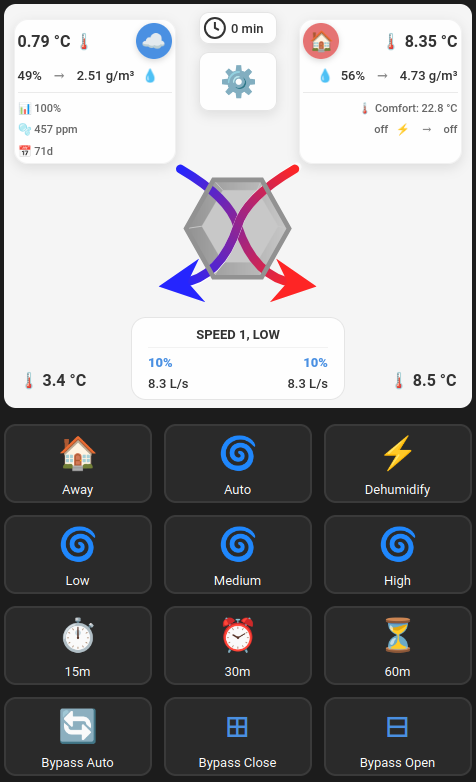
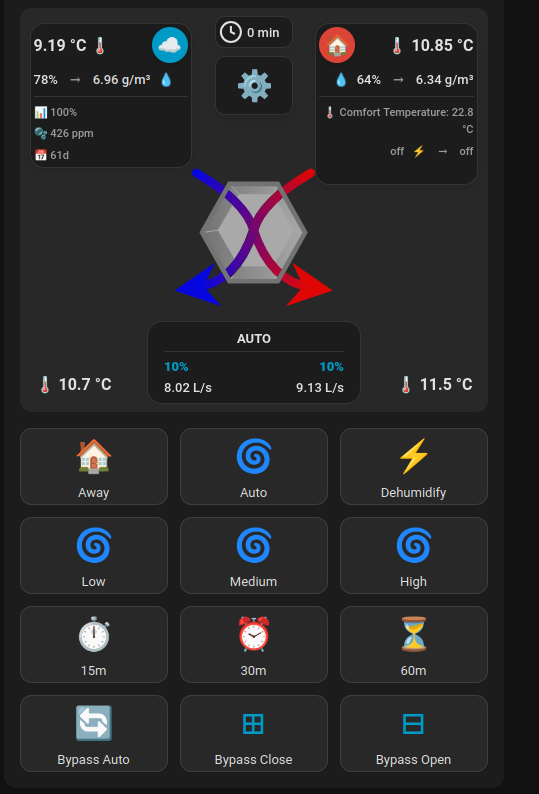
update hvac-fan screenshots

diff --git a/wiki_page_on_cc.md b/wiki_page_on_cc.md
@@ -1,0 +1,36 @@
+# Ramses Extras
+
+A collection of **features**: add optional entities, automations, cards, websocket commands, servicecalls to [Ramses RF (ramses_cc)](https://github.com/ramses-rf/ramses_cc). It’s designed to work alongside ramses_cc without getting in the way.
+This integration/framework is **built** as a basis for new features and I want to expand it to get a nice collection of handy tools. If you want to contribute, or have an idea for what's missing, **please** contact me (create an issue on my repo).
+
+I started this project to get a better user experience. With a few clicks you can enable a feature, enable the devices it should work with and your card or automation will become available in your dashboard...no more entities that need to be created by hand or other steps that are needed. Even the commands for FAN's are included, so no more need to set them in Ramses RF config flow.
+It became quite a big project, just have a look if you're interested.
+
+Have fun, Willem ([wimpie70](https://github.com/wimpie70))
+
+---
+
+## What you get
+
+- **HVAC Fan Card** – A Lovelace card for ventilation/heat-recovery units with airflow diagrams, controls, and parameter editing, add a 'bound' REM to your FAN in Ramses RF to get full control.
+- **Humidity Control** – Automates fan speeds based on indoor/outdoor absolute humidity.
+- **Sensor Control** – Lets you choose which sensors provide temperature, humidity, CO₂, and absolute humidity for each device.
+- **Hello World** – Example/template for building new features.
+- **Default** – Shared entities, WebSocket commands, and helpers used by other features.
+- **Framework** – Shared base classes and helpers to make adding new features easier.
+
+_More features planned—ideas and contributions welcome!_
+
+<img src="https://github.com/wimpie70/ramses_extras/blob/master/docs/hvac_fan_card_1.png" alt="HVAC Fan Card 1" width="30%"> <img src="https://github.com/wimpie70/ramses_extras/blob/master/docs/hvac_fan_card_2.png" alt="HVAC Fan Card 2" width="30%">
+
+## Install
+
+Install Ramses Extras via HACS or manually, then enable the features you want in the Ramses Extras configuration flow. It will discover your Ramses RF devices and add the extra entities, automations, and Lovelace cards.
+
+- **Repository**: https://github.com/wimpie70/ramses_extras
+- **HACS**: Add as a custom repository and install
+- **Docs**: See the project README and [wiki](https://github.com/wimpie70/ramses_extras/wiki) for setup and development details
+
+---
+
+Ramses Extras needs Ramses RF to be installed first. It doesn’t replace ramses_cc, it just adds extras on top.
